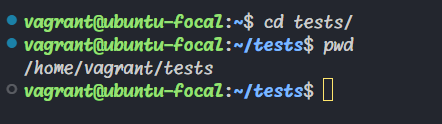
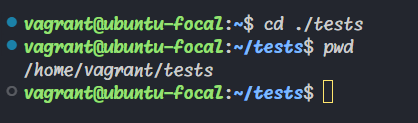
Corrected task b

Changed region(s): [[0.0, 0.0976, 0.8708, 0.4634], [0.0, 0.4634, 0.8086, 0.8537], [0.7775, 0.8293, 0.8086, 0.8537]]

diff --git a/assignment-1.md b/assignment-1.md
@@ -24,7 +24,7 @@ cd /home/vagrant/tests
 ### b. Navigate to the 'tests' directory using its relative pathname.
 
 ```bash
-cd tests
+cd ./tests
 ```
 ![Screenshot 3](./screenshots/relative-pathname.png)
 
